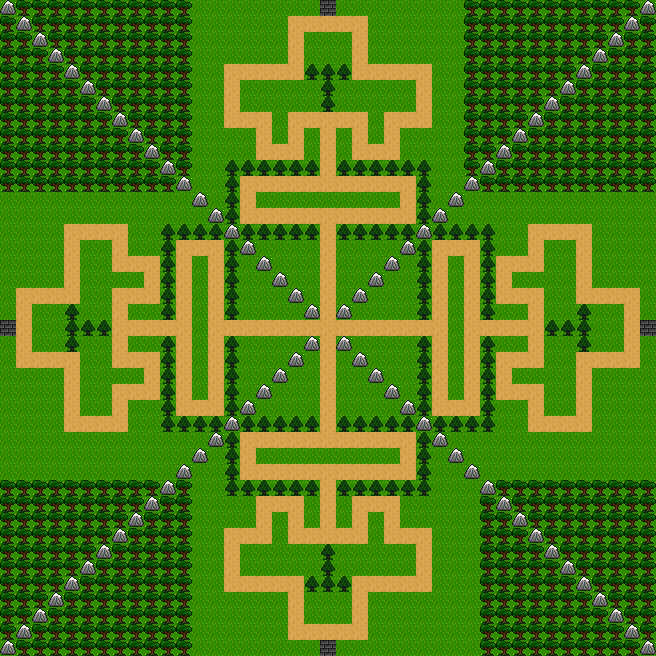
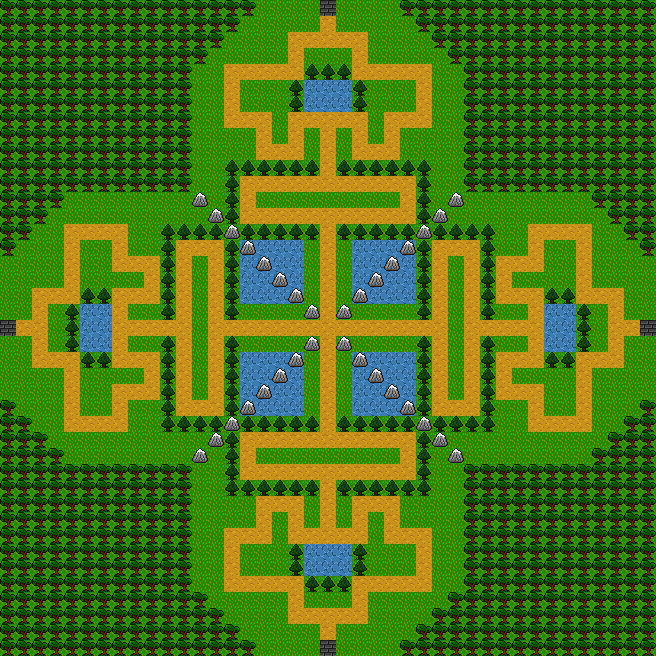
j'ai changé la map1

diff --git a/code/client/MapGUI.cpp b/code/client/MapGUI.cpp
@@ -6,6 +6,9 @@
 MapGUI::MapGUI(unsigned int seed, GameGUI *gameGUI, QHBoxLayout *layout = 0) : Map(seed), gameGUI(gameGUI) {
     display();
     layout->addWidget(this);
+    if (seed == 0) this->setStyleSheet("background-image: url(../../maps/map1.png)");
+    else if (seed == 1) this->setStyleSheet("background-image: url(../../maps/map2.png)");
+    else if (seed == 2) this->setStyleSheet("background-image: url(../../maps/map3.png)");
 }
 
 void MapGUI::display(GameState &gameStateUpdate, int quadrantUpdate) {
@@ -48,24 +51,24 @@ void MapGUI::paintEvent(QPaintEvent *) {
                     }
                     if (has_npc) break;
                 }
-                image = QImage("../../qt_ui/game_pictures/tiles/path.png");
-                painter.drawImage(x*TILES_SIZE, y*TILES_SIZE, image);
+//                image = QImage("../../qt_ui/game_pictures/tiles/path.png");
+//                painter.drawImage(x*TILES_SIZE, y*TILES_SIZE, image);
                 if (has_npc) {
                     image = QImage("../../qt_ui/game_pictures/tiles/mexican.png");
                     painter.drawImage(x*TILES_SIZE, y*TILES_SIZE, image);
                 }
             } else if (cell == GRASS_INT or cell == SAND_INT or cell == SNOW_INT or cell == DIRT_INT or cell == STONE_INT) {
-                if (cell == GRASS_INT) {
-                    image = QImage("../../qt_ui/game_pictures/tiles/grass.png");
-                } else if (cell == SAND_INT) {
-                    image = QImage("../../qt_ui/game_pictures/tiles/sand.png");
-                } else if (cell == SNOW_INT) {
-                    image = QImage("../../qt_ui/game_pictures/tiles/snow.png");
-                } else if (cell == DIRT_INT) {
-                    image = QImage("../../qt_ui/game_pictures/tiles/dirt.png");
-                } else {
-                    image = QImage("../../qt_ui/game_pictures/tiles/stone.png");
-                }
+//                if (cell == GRASS_INT) {
+//                    image = QImage("../../qt_ui/game_pictures/tiles/grass.png");
+//                } else if (cell == SAND_INT) {
+//                    image = QImage("../../qt_ui/game_pictures/tiles/sand.png");
+//                } else if (cell == SNOW_INT) {
+//                    image = QImage("../../qt_ui/game_pictures/tiles/snow.png");
+//                } else if (cell == DIRT_INT) {
+//                    image = QImage("../../qt_ui/game_pictures/tiles/dirt.png");
+//                } else {
+//                    image = QImage("../../qt_ui/game_pictures/tiles/stone.png");
+//                }
 
                 typeOfTower = "";
                 for (auto &tower : towers) {
@@ -75,12 +78,15 @@ void MapGUI::paintEvent(QPaintEvent *) {
                         break;
                     }
                 }
-                if (typeOfTower == GUN_TOWER_STR) {
-                    image = QImage("../../qt_ui/game_pictures/tiles/guntower.png");
-                } else if (typeOfTower == SNIPER_TOWER_STR) {
-                    image = QImage("../../qt_ui/game_pictures/tiles/snipertower.png");
-                } else if (typeOfTower == SHOCK_TOWER_STR) {
-                    image = QImage("../../qt_ui/game_pictures/tiles/shocktower.png");
+                if (typeOfTower != "") {
+                    if (typeOfTower == GUN_TOWER_STR) {
+                        image = QImage("../../qt_ui/game_pictures/tiles/guntower.png");
+                    } else if (typeOfTower == SNIPER_TOWER_STR) {
+                        image = QImage("../../qt_ui/game_pictures/tiles/snipertower.png");
+                    } else if (typeOfTower == SHOCK_TOWER_STR) {
+                        image = QImage("../../qt_ui/game_pictures/tiles/shocktower.png");
+                    }
+                    painter.drawImage(x * TILES_SIZE, y * TILES_SIZE, image);
                 }
             } else if (cell == BASE_INT) {
                 if (computeQuadrant(Position(x, y)) == quadrant) {
@@ -93,32 +99,31 @@ void MapGUI::paintEvent(QPaintEvent *) {
                         image = QImage("../../qt_ui/game_pictures/tiles/base.png");
                     }
                 }
-            } else if (cell == GRASS_ROCK_INT) {
-                image = QImage("../../qt_ui/game_pictures/tiles/grassrock.png");
-            } else if (cell == TREE_INT) {
-                image = QImage("../../qt_ui/game_pictures/tiles/tree.png");
-            } else if (cell == PINE_INT) {
-                image = QImage("../../qt_ui/game_pictures/tiles/pine.png");
-            } else if (cell == PALMER_INT) {
-                image = QImage("../../qt_ui/game_pictures/tiles/palmer.png");
-            } else if (cell == WATER_INT) {
-                image = QImage("../../qt_ui/game_pictures/tiles/water.png");
-            } else if (cell == SAND_STONE_INT) {
-                image = QImage("../../qt_ui/game_pictures/tiles/sandstone.png");
-            } else if (cell == SAND_ROCK_INT) {
-                image = QImage("../../qt_ui/game_pictures/tiles/sandrock.png");
-            } else if (cell == WATER_ROCK_INT) {
-                image = QImage("../../qt_ui/game_pictures/tiles/waterrock.png");
-            } else if (cell == LAVA_INT) {
-                image = QImage("../../qt_ui/game_pictures/tiles/lava.png");
-            } else if (cell == PINE_SNOW_INT) {
-                image = QImage("../../qt_ui/game_pictures/tiles/pinesnow.png");
-            } else if (cell == DIRT_ROCK_INT) {
-                image = QImage("../../qt_ui/game_pictures/tiles/dirtrock.png");
-            } else {
-                image = QImage("../../qt_ui/game_pictures/tiles/unknown.png");
+                painter.drawImage(x*TILES_SIZE, y*TILES_SIZE, image);
             }
-            painter.drawImage(x*TILES_SIZE, y*TILES_SIZE, image);
+//            else if (cell == GRASS_ROCK_INT) {
+//                image = QImage("../../qt_ui/game_pictures/tiles/grassrock.png");
+//            } else if (cell == TREE_INT) {
+//                image = QImage("../../qt_ui/game_pictures/tiles/tree.png");
+//            } else if (cell == PINE_INT) {
+//                image = QImage("../../qt_ui/game_pictures/tiles/pine.png");
+//            } else if (cell == PALMER_INT) {
+//                image = QImage("../../qt_ui/game_pictures/tiles/palmer.png");
+//            } else if (cell == WATER_INT) {
+//                image = QImage("../../qt_ui/game_pictures/tiles/water.png");
+//            } else if (cell == SAND_STONE_INT) {
+//                image = QImage("../../qt_ui/game_pictures/tiles/sandstone.png");
+//            } else if (cell == SAND_ROCK_INT) {
+//                image = QImage("../../qt_ui/game_pictures/tiles/sandrock.png");
+//            } else if (cell == WATER_ROCK_INT) {
+//                image = QImage("../../qt_ui/game_pictures/tiles/waterrock.png");
+//            } else if (cell == LAVA_INT) {
+//                image = QImage("../../qt_ui/game_pictures/tiles/lava.png");
+//            } else if (cell == PINE_SNOW_INT) {
+//                image = QImage("../../qt_ui/game_pictures/tiles/pinesnow.png");
+//            } else if (cell == DIRT_ROCK_INT) {
+//                image = QImage("../../qt_ui/game_pictures/tiles/dirtrock.png");
+//            }
 
             if (highlighted.getX() == x && highlighted.getY() == y) {
                 QRect rect = QRect(x*TILES_SIZE, y*TILES_SIZE, TILES_SIZE-1, TILES_SIZE-1);

diff --git a/code/client/Game/GameGUI.cpp b/code/client/Game/GameGUI.cpp
@@ -125,6 +125,7 @@ void GameGUI::displayPlayerInfos(GameState &gameState, int quadrant) {
     std::string text = "\t" + playerState.getUsername();
 
     usernameL->setText(QString::fromStdString(text));
+    usernameL->show();
 
     text = "\n\n\n\tMoney : " + std::to_string(playerState.getMoney()) + " $";
     text += "\n\tHP : " + std::to_string(playerState.getHp());
@@ -132,6 +133,7 @@ void GameGUI::displayPlayerInfos(GameState &gameState, int quadrant) {
     text += "\n\tQuadrant : " + QUADRANT_NAMES[quadrant];
 
     playerStateL->setText(QString::fromStdString(text));
+    playerStateL->show();
 }
 
 void GameGUI::displayInfoForSupporter(GameState &gameState) {
